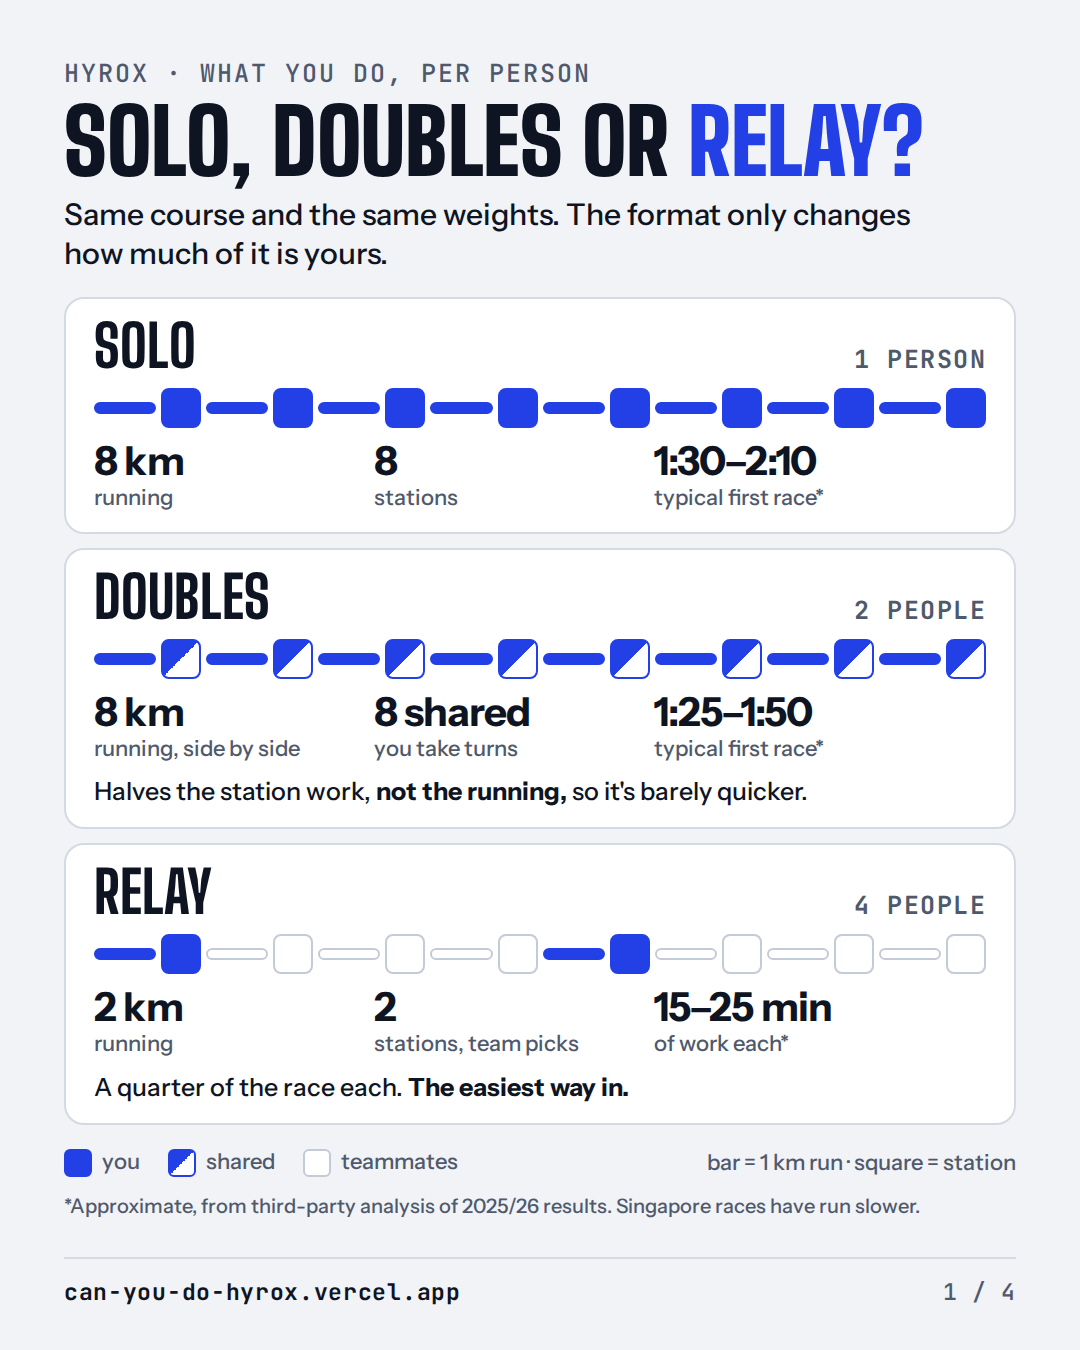
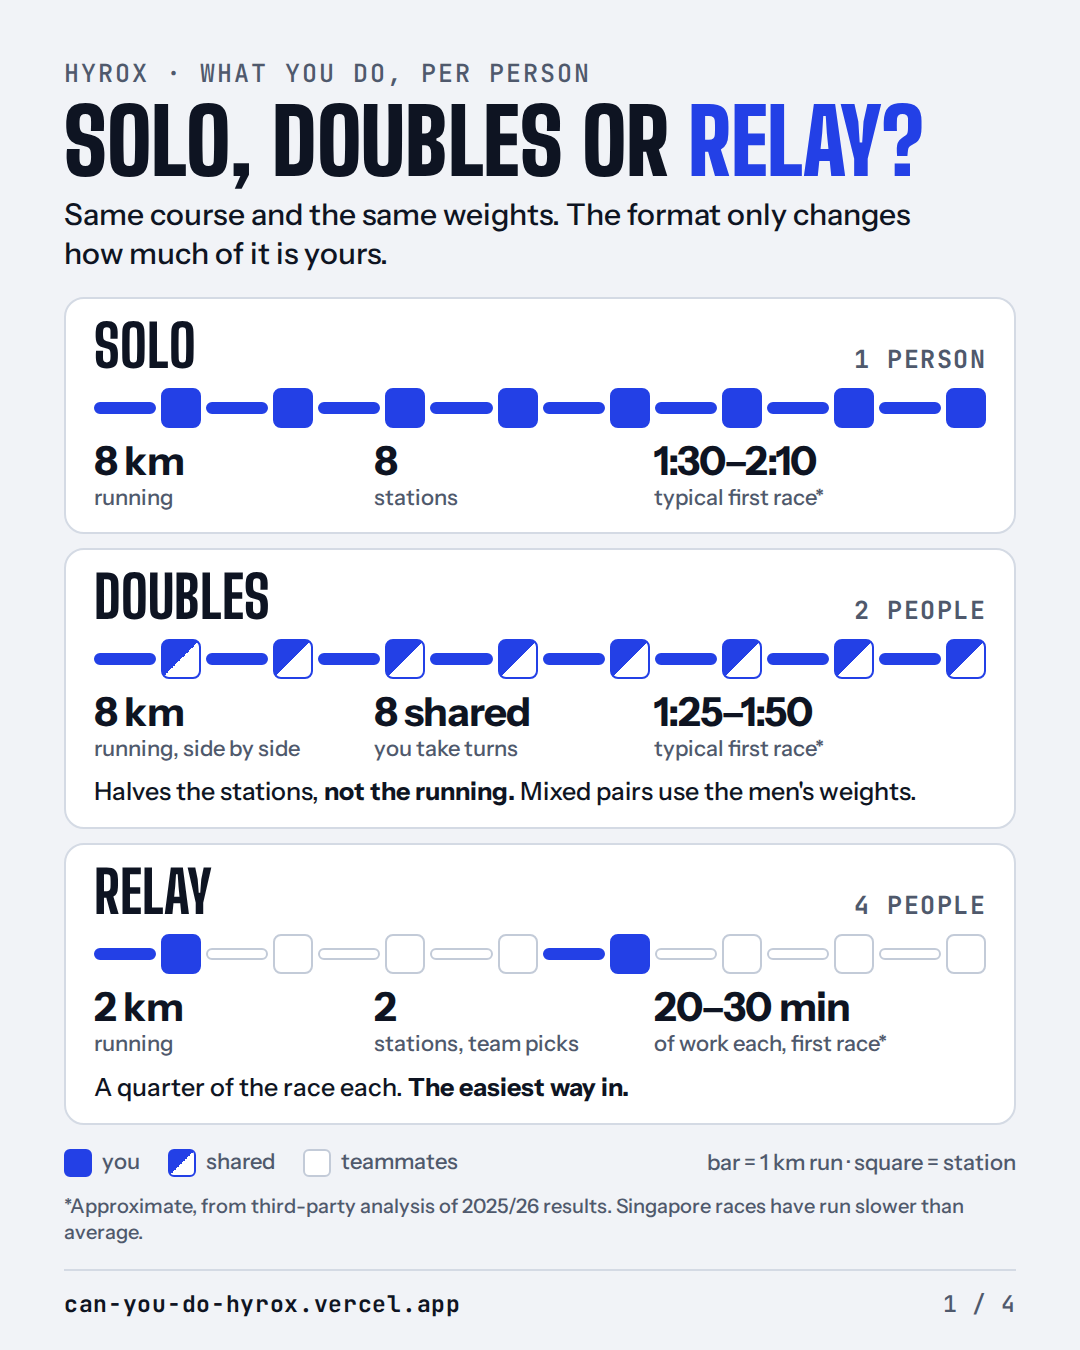
Apply fact-review fixes to comparison cards and site
Relay work shown as first-race 20-30 min everywhere, mixed doubles
weights noted on card 1, wall balls described as done by the last
member while the team cheers, rower rest stays seated, card 3 weights
wording no longer contradicts mixed doubles, site relay strip matches
the SkiErg + Row tip, and share-page alt text matches the cards.

Claude-Session: https://claude.ai/code/session_018ZDwcHSyeBTy9PunRMkirw

diff --git a/index.html b/index.html
@@ -585,12 +585,12 @@ details.answers summary{cursor:pointer;font-weight:600;width:max-content;max-wid
         <div class="fmt-top"><h3>Doubles</h3><span class="who">2 people</span></div>
         <div class="mstrip" aria-hidden="true"><i class="r you"></i><i class="s half"></i><i class="r you"></i><i class="s half"></i><i class="r you"></i><i class="s half"></i><i class="r you"></i><i class="s half"></i><i class="r you"></i><i class="s half"></i><i class="r you"></i><i class="s half"></i><i class="r you"></i><i class="s half"></i><i class="r you"></i><i class="s half"></i></div>
         <dl class="fmt-stats"><div><dt>Running, side by side</dt><dd>8 km</dd></div><div><dt>Stations, taking turns</dt><dd>All 8</dd></div><div><dt>Typical first race*</dt><dd>1:25–1:50</dd></div></dl>
-        <p>Halves the station work, <b>not the running</b>: you run every kilometre side by side, so it's barely quicker than solo. One of you works a station while the other rests. Mixed pairs use the men's weights.</p>
+        <p>Halves the station work, <b>not the running</b>: you run every kilometre side by side, so it's nowhere near half the time. One of you works a station while the other rests. Mixed pairs use the men's weights.</p>
       </article>
       <article class="fmt pick">
         <div class="fmt-top"><h3>Relay <span class="badge">Easiest way in</span></h3><span class="who">4 people</span></div>
-        <div class="mstrip" aria-hidden="true"><i class="r"></i><i class="s"></i><i class="r"></i><i class="s"></i><i class="r"></i><i class="s"></i><i class="r"></i><i class="s"></i><i class="r you"></i><i class="s you"></i><i class="r you"></i><i class="s you"></i><i class="r"></i><i class="s"></i><i class="r"></i><i class="s"></i></div>
-        <dl class="fmt-stats"><div><dt>Running</dt><dd>2 km</dd></div><div><dt>Stations, team picks</dt><dd>2 of 8</dd></div><div><dt>Work each</dt><dd>15–25 min*</dd></div></dl>
+        <div class="mstrip" aria-hidden="true"><i class="r you"></i><i class="s you"></i><i class="r"></i><i class="s"></i><i class="r"></i><i class="s"></i><i class="r"></i><i class="s"></i><i class="r you"></i><i class="s you"></i><i class="r"></i><i class="s"></i><i class="r"></i><i class="s"></i><i class="r"></i><i class="s"></i></div>
+        <dl class="fmt-stats"><div><dt>Running</dt><dd>2 km</dd></div><div><dt>Stations, team picks</dt><dd>2 of 8</dd></div><div><dt>Work each, first race*</dt><dd>20–30 min</dd></div></dl>
         <p>Each person runs 2 × 1 km and does 2 stations, and the team decides who does which. Only one of you works at a time.</p>
       </article>
     </div>
@@ -611,9 +611,9 @@ details.answers summary{cursor:pointer;font-weight:600;width:max-content;max-wid
         <li class="pc"><span class="rl-n">8</span><span class="rl-st">Wall balls</span><span class="rl-lt">C</span></li>
       </ol>
       <div class="relay-people">
-        <div class="rp pa"><h4>A · Least fit</h4><ul><li><span>1</span>SkiErg 1,000 m</li><li><span>5</span>Row 1,000 m</li></ul><p>Both machines: you set the pace and can pause any time, with a long rest in between.</p></div>
+        <div class="rp pa"><h4>A · Least fit</h4><ul><li><span>1</span>SkiErg 1,000 m</li><li><span>5</span>Row 1,000 m</li></ul><p>Both machines: you set the pace and can pause (stay seated on the rower), with a long rest in between.</p></div>
         <div class="rp pb"><h4>B · Strongest</h4><ul><li><span>2</span>Sled push 50 m</li><li><span>3</span>Sled pull 50 m</li></ul><p>The sleds only move if you're strong enough. Tough back to back, so two strong people can split them.</p></div>
-        <div class="rp pc"><h4>C · Best engine</h4><ul><li><span>4</span>Burpee broad jumps 80 m</li><li><span>8</span>100 wall balls</li></ul><p>The two most tiring stations. The team joins you at the wall balls and all four cross the line together.</p></div>
+        <div class="rp pc"><h4>C · Best engine</h4><ul><li><span>4</span>Burpee broad jumps 80 m</li><li><span>8</span>100 wall balls</li></ul><p>Two of the most tiring stations. You do all 100 wall balls while the team cheers, then all four cross the line together.</p></div>
         <div class="rp pd"><h4>D · All-rounder</h4><ul><li><span>6</span>Farmers carry 200 m</li><li><span>7</span>Sandbag lunges 100 m</li></ul><p>Grip, then legs, back to back.</p></div>
       </div>
       <div class="relay-ready">

diff --git a/share.html b/share.html
@@ -64,8 +64,8 @@ h1 span{color:var(--accent)}
 
   <ol class="cards">
     <li><img src="/cards/hyrox-1-formats.png" width="1080" height="1350" alt="Solo, Doubles or Relay: per person. Solo is 8 km of running and all 8 stations. Doubles is 8 km of running side by side with the 8 stations shared. Relay is 2 km of running and 2 stations each."><div class="row"><span><b>1</b> · Solo vs Doubles vs Relay</span><button class="btn btn-ghost" type="button" data-share="0" hidden>Share</button></div></li>
-    <li><img src="/cards/hyrox-2-relay-legs.png" width="1080" height="1350" alt="Relay: who does what. A, least fit: row and farmers carry. B, strongest: sled push and pull. C, fittest legs: lunges and wall balls. D, all-rounder: SkiErg and burpee broad jumps."><div class="row"><span><b>2</b> · Relay: who does what</span><button class="btn btn-ghost" type="button" data-share="1" hidden>Share</button></div></li>
-    <li><img src="/cards/hyrox-3-relay-ready.png" width="1080" height="1350" alt="Ready for relay if you can jog 1 km twice, row 1,000 m and carry two kettlebells 200 m. Weights don't get lighter and every station must be finished."><div class="row"><span><b>3</b> · Ready for relay?</span><button class="btn btn-ghost" type="button" data-share="2" hidden>Share</button></div></li>
+    <li><img src="/cards/hyrox-2-relay-legs.png" width="1080" height="1350" alt="Relay: who does what. Popular tips, not rules; your team decides. A, least fit: SkiErg and row. B, strongest: sled push and sled pull. C, best engine: burpee broad jumps and wall balls. D, all-rounder: farmers carry and sandbag lunges. All four cross the finish together."><div class="row"><span><b>2</b> · Relay: who does what</span><button class="btn btn-ghost" type="button" data-share="1" hidden>Share</button></div></li>
+    <li><img src="/cards/hyrox-3-relay-ready.png" width="1080" height="1350" alt="Ready for relay if you can jog 1 km twice, SkiErg 1,000 m and row 1,000 m: relay legs 1 and 5, about 20 to 30 minutes of work for a beginner. Weights don't get lighter, and every station must be finished in full or the team is disqualified."><div class="row"><span><b>3</b> · Ready for relay?</span><button class="btn btn-ghost" type="button" data-share="2" hidden>Share</button></div></li>
     <li><img src="/cards/hyrox-4-numbers.png" width="1080" height="1350" alt="The numbers: the eight stations with women's and men's Open weights, and AIA HYROX Singapore on 26 to 29 November at Singapore EXPO."><div class="row"><span><b>4</b> · The numbers</span><button class="btn btn-ghost" type="button" data-share="3" hidden>Share</button></div></li>
   </ol>
 </main>
